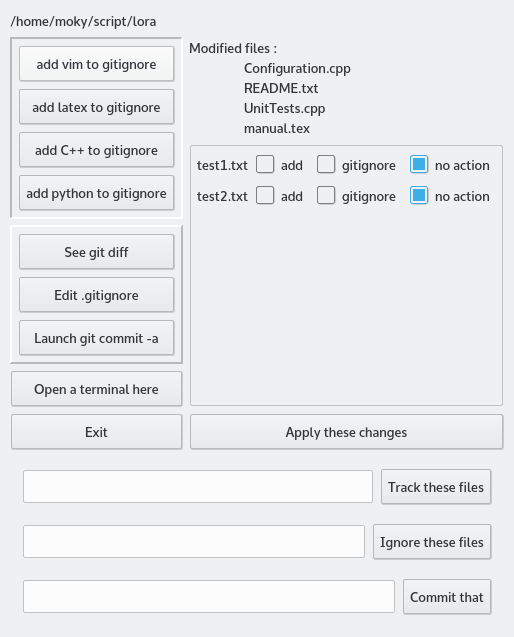
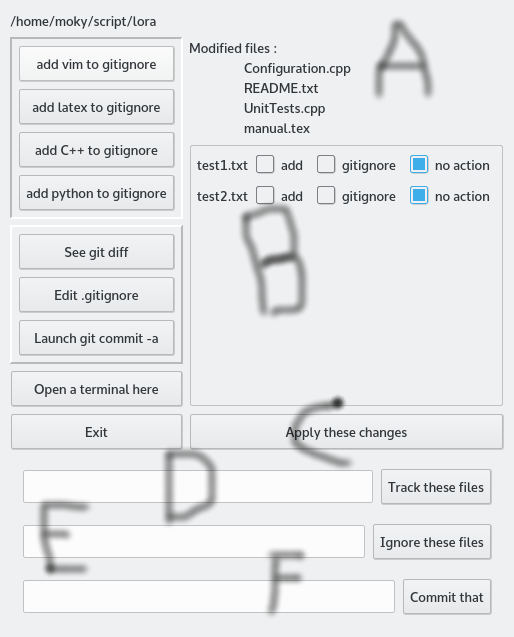
Manual update

diff --git a/manual.tex b/manual.tex
@@ -18,6 +18,8 @@
 \usepackage[utf8]{inputenc}
 \usepackage[T1]{fontenc}
 
+\newcounter{numtho}
+\newtheorem{remark}[numtho]{Remark}
 \newcommand{\info}[1]{\texttt{#1}}
 
 \begin{document}
@@ -46,7 +48,7 @@ The first step is to download the whole on \href{ https://github.com/LaurentClae
 
 You compile this documentation with
 \begin{center}
-    pdflatex manual.tex
+    \info{pdflatex manual.tex}
 \end{center}
 A \LaTeX\ distribution is needed\ distribution is needed.
 
@@ -124,6 +126,7 @@ Here it is :
     \item
         The excluded directories (C) are what they seem to be : they will be excluded from the backup. You can as example not backup the directory in which you save the \info{iso} files of your preferred Linux distribution. Press the \includegraphics{plus.png} button to add an excluded directory.
 \end{enumerate}
+
 
 %///////////////////////////////////////////////////////////////////////////////////////////////////////////////////////////
 \subsubsection{The terminal tab}
@@ -239,10 +242,33 @@ Since Lora loops over the whole \info{\$HOME}, it also takes time to check for e
 
 A list of directories that are not clean git repository (untracked or modified files) is displayed. Clicking on one of them opens a dialog window that helps you to manage the situation.
 
+Here is a window example :
 
-\begin{description}
-    \item[Add <this> to gitignore]
+\begin{center}
+    \includegraphics[width=\linewidth]{git_helper.png}
+\end{center}
+
+\begin{enumerate}
+    \item
+        A list of modified files (A).
+    \item
+        A list of untracked files (B). For each you can choice to track it (add) or ignore it (add to \info{.gitignore}). When clicking on ``Apply these changes'' (C), Lora does \info{git add} for the files you checked ``add'' and appends to \info{.gitignore} the names that you checked as ``gitignore''.
+    \item
+        The ``Track these files'' line (D). Lora will perform \info{git add} with the given argument (like \info{*.cpp}, \info{*.tex}).
+    \item
+        The ``Ignore these files'' line (E). Lora will append the files given in argument into \info{.gitignore} (like \info{*.tmp}, \info{*.eps}).
+    \item
+        The ``Commit that'' line (F) performs \info{git commit --message=} with the given message.
+\end{enumerate}
+
+
+\begin{description} 
+    \item[Add <this> to gitignore] Click there is this repository is of <this> type and Lora will add corresponding files to \info{.gitignore}. Example : with ``add latex to gitignore'', it will add \info{*.aux}, \info{*.toc}, etc.
+    \item[See git diff] open a terminal and launch \info{git diff} inside.
+    \item[Edit .gitignore] open \info{.gitignore} in your preferred editor.
+    \item[Launch git commit -a] Open a terminal and launches \info{git commit -a} inside.
+    \item[Open a terminal here] does what you think it does.
+    \item[Exit] does what you think it does.
 \end{description}
-<++>
 
 \end{document}
